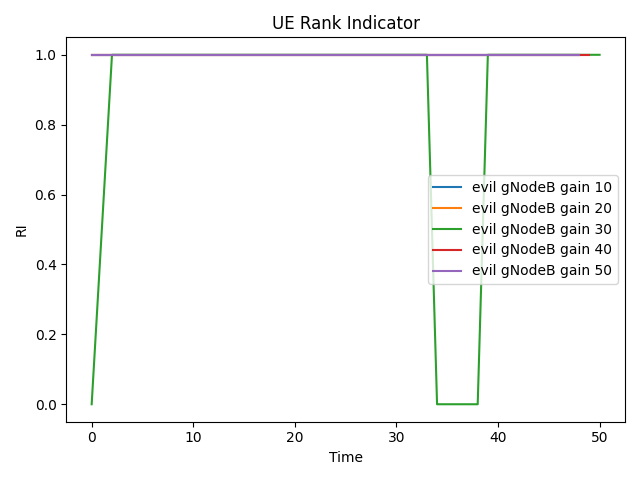
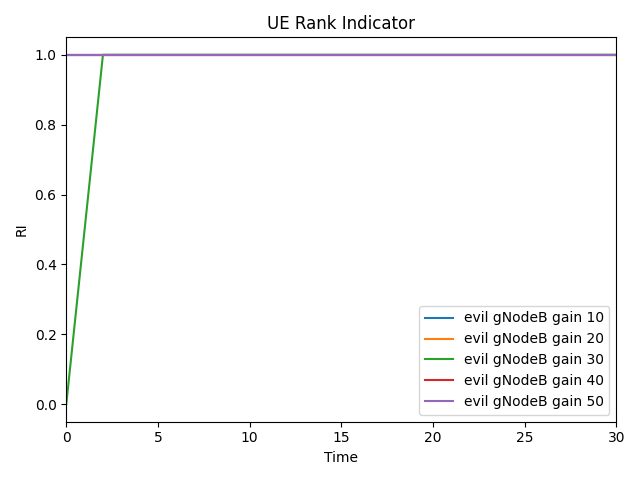
Modifed the graph format so you can specify the range of the x axis.

diff --git a/scripts/writeExperimentGraphs.py b/scripts/writeExperimentGraphs.py
@@ -137,6 +137,11 @@ def outputAllGraphs(experiment, args):
         graphParamDict = graph[graphName]
         graphFilename = graphParamDict['filename']
         graphTitle = graphParamDict['graphTitle']
+
+        if ('xaxisMin' in graphParamDict and 'xaxisMax' not in graphParamDict) or \
+           ('xaxisMin' not in graphParamDict and 'xaxisMax' in graphParamDict):
+           raise Exception(f"Error: For graph {graphName}, if you provide either the xaxisMin or a xaxisMax, you must provide both.")
+        
         outputGraph(graphName=graphName, graphFilename=graphFilename, graphTitle=graphTitle, graphParamDict=graphParamDict, args=args)
 
 
@@ -174,6 +179,10 @@ def outputGraph(graphName, graphFilename, graphTitle, graphParamDict, args):
     elif 'yaxisType' in graphParamDict and graphParamDict['yaxisType'] == "bytes":
         ax = plt.gca()  # get the axes object
         ax.yaxis.set_major_formatter(tkr.FuncFormatter(bytes_sizeof_fmt))
+
+    if 'xaxisMin' in graphParamDict and 'xaxisMax' in graphParamDict:
+        ax = plt.gca()
+        ax.set_xlim(int(graphParamDict['xaxisMin']),int(graphParamDict['xaxisMax']))
 
     if 'legendLocation' in graphParamDict and len(graphParamDict['legendLocation']) > 0:
         plt.legend(loc=graphParamDict['legendLocation'])
